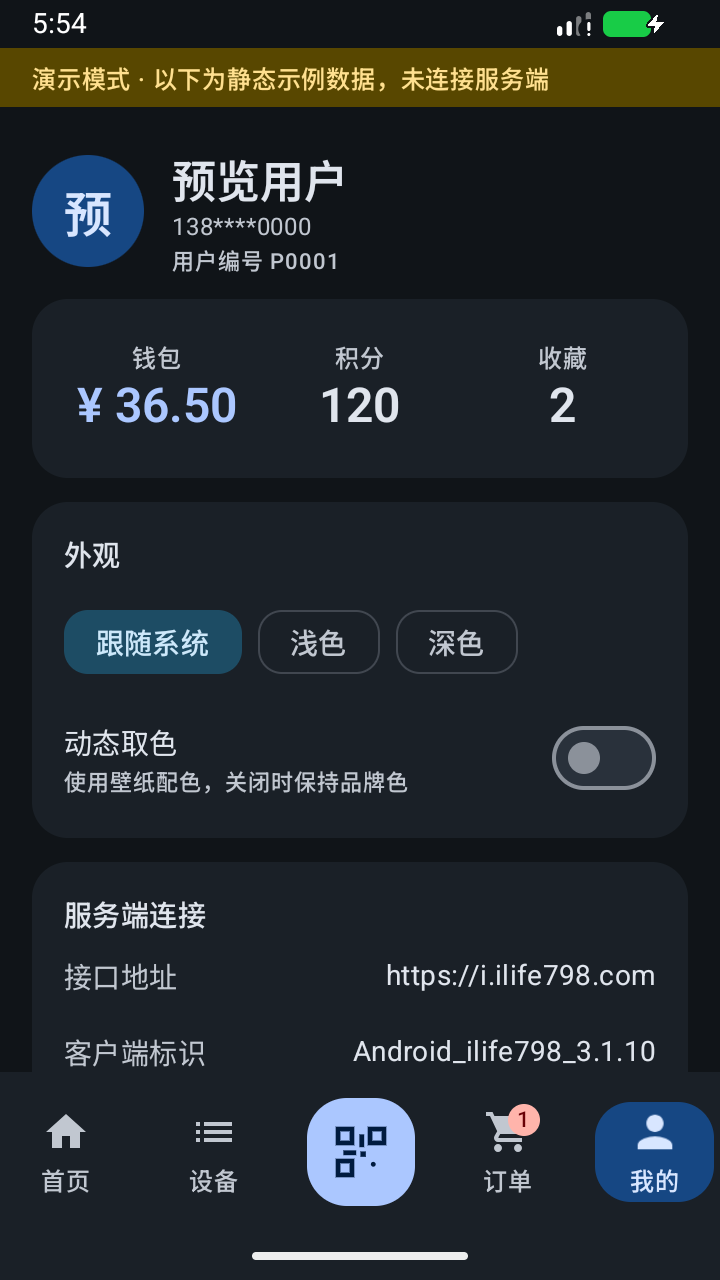
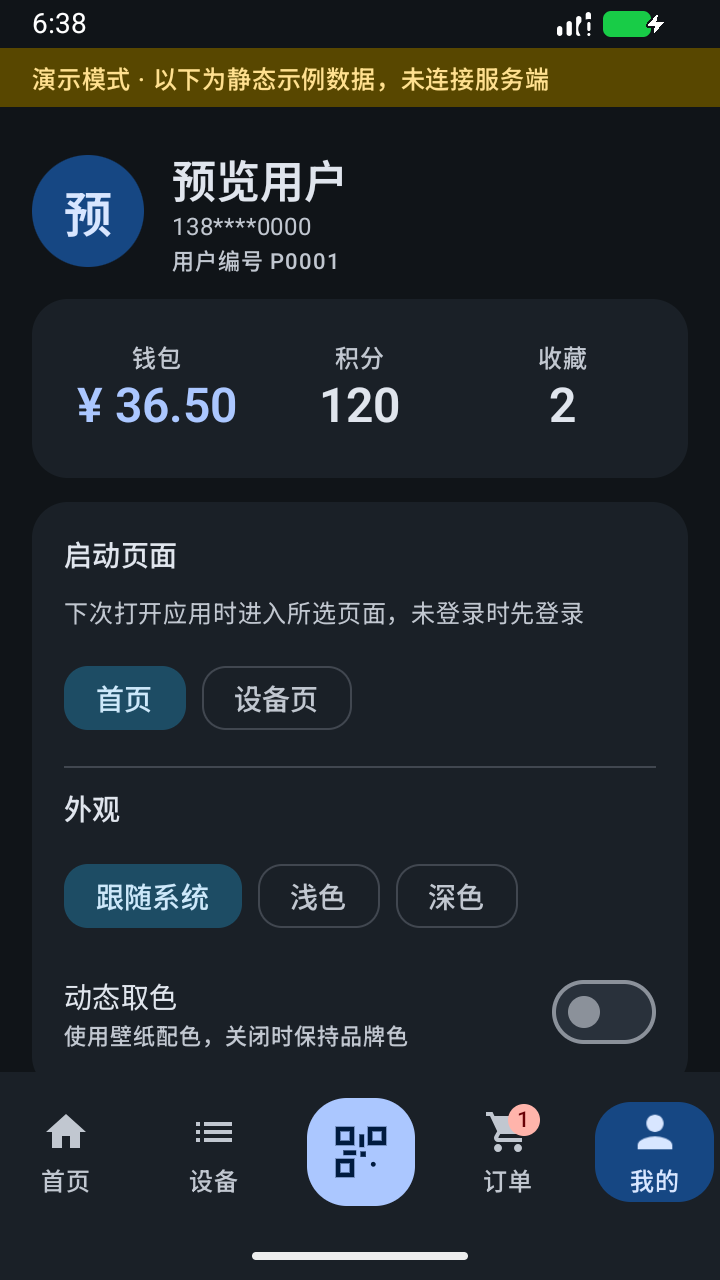
chore(release): 准备 1.9.0 本地构建与启动设置截图

diff --git a/SmartLife798/app/src/androidTest/java/com/smartlife798/app/UxFlowChecks.kt b/SmartLife798/app/src/androidTest/java/com/smartlife798/app/UxFlowChecks.kt
@@ -91,6 +91,8 @@ object UxFlowChecks {
                 await(test, "启动页面")
                 // Capture only preview data, with a stable original filename on export.
                 if (page == StartupPage.DEVICES) {
+                    test.waitForIdleSync()
+                    test.uiAutomation.waitForIdle(500, 5_000)
                     test.uiAutomation.takeScreenshot()?.let { bitmap ->
                         java.io.File(test.targetContext.cacheDir, "ux-me.png").outputStream().use {
                             bitmap.compress(android.graphics.Bitmap.CompressFormat.PNG, 100, it)

diff --git a/README.md b/README.md
@@ -7,29 +7,30 @@
 | | |
 |---|---|
 | 新客户端包名 | `com.smartlife798.app` |
-| 当前版本 | `1.8.0`（`versionCode 30`） |
+| 当前版本 | `1.9.0`（`versionCode 31`） |
 | 技术栈 | Kotlin 2.2 · Jetpack Compose (Material 3) · OkHttp · CameraX + ML Kit · Alipay / WeChat SDK |
 | 最低版本 | Android 7.0（API 24） |
-| 正式下载 | [1.8.0 APK](https://github.com/wu-shanglin/Smartlife798/releases/download/v1.8.0/SmartLife798-1.8.0-debug.apk) · [Release 说明](https://github.com/wu-shanglin/Smartlife798/releases/tag/v1.8.0) |
+| 最新已发布 | [1.8.0 APK](https://github.com/wu-shanglin/Smartlife798/releases/download/v1.8.0/SmartLife798-1.8.0-debug.apk) · [Release 说明](https://github.com/wu-shanglin/Smartlife798/releases/tag/v1.8.0) |
 
 > **首次参与开发请先读 [`AGENTS.md`](AGENTS.md)**（分层规则、硬性约束、常见任务手册、已知陷阱、完成标准），
 > 变更记录见 [`CHANGELOG.md`](CHANGELOG.md)，长期路线见 [`docs/06-工程规范与路线图.md`](docs/06-工程规范与路线图.md)。
 
 ---
 
-## v1.8.0 更新（跨版本日志与协议版本发现）
+## v1.9.0 本地构建（启动页面与体验优化）
 
-- 首次进入前台自动检查更新，历史附件展示当前安装之后至目标版本的全部已有日志，旧客户端更新入口保持兼容。
-- 协议标识优先读取原版小米分发信息，获取失败保留缓存与内置保底；仅版本标识变化无需重新安装本客户端。
-- 深海蓝主题、「我的」指标等宽布局和共享过渡继续保留，完整配色见 [视觉系统](docs/02-功能设计与UI方案.md#6-视觉系统)。
-- 正式 Release 同时提供 APK、更新策略与完整日志附件；下方 11 张截图均已由 1.8.0 重新采集。
+- 「我的 → 启动页面」可选择首页或设备页，默认首页，登出保留；修改后保持当前页面，下次重新启动时生效，未登录先登录。
+- 首页/订单用时只刷新独立文本，非前台暂停；页面状态随生命周期收集，设备关联和排序复用 id 索引，减少重复计算。
+- 设备页区分加载、空列表、同步失败和搜索无匹配，支持重试、清除筛选及一键清空搜索，搜索忽略首尾空格。
+- 「我的」独立刷新钱包，未知余额显示占位；下拉刷新防重复并在取消时释放状态，主数据/钱包的旧账号响应不回写。
+- 本地安装包见下方产物；尚未打 tag 或发布 Release，线上正式下载仍为 1.8.0。
 
 ## 客户端更新与安装
 
 - 首次启动（无需登录）及返回前台自动检查更新，登录页与「我的」可手动检查；普通更新允许暂缓，强制更新按最低支持版本码限制旧版。新发布附带 CHANGELOG 历史附件，弹窗按版本分段展示当前安装至最新版之间的全部已有日志；旧元数据只展示最新说明并提示历史缺失。
 - 点击更新直接下载 GitHub APK，显示进度；校验哈希、包名、版本和签名后自动打开系统安装界面。Android 需要用户确认，首次可能需要允许安装未知来源应用。
 - [直接下载 APK](https://github.com/wu-shanglin/Smartlife798/releases/download/v1.8.0/SmartLife798-1.8.0-debug.apk) · [GitHub 仓库](https://github.com/wu-shanglin/Smartlife798) · [下载最新版本](https://github.com/wu-shanglin/Smartlife798/releases/latest)；更新发布配置见 [工程规范](docs/06-工程规范与路线图.md#github-更新发布)。
-- 已支持应用内更新的旧版可直接升级；更早未集成更新功能的版本需先手动安装。本次为普通更新，最低支持版本码沿用 1。已知强制策略离线仍保留；演示模式不检查、不下载、不安装。
+- 已支持应用内更新的旧版可直接升级；更早未集成更新功能的版本需先手动安装。线上 1.8.0 为普通更新，最低支持版本码沿用 1；1.9.0 尚未发布新策略。已知强制策略离线仍保留；演示模式不检查、不下载、不安装。
 
 详情过渡与校园生活图标继续保留：
 
@@ -38,7 +39,7 @@
 - 设备文字随容器统一缩放，移除独立标题层和重复整页淡变；导航刷新移到进场结束后，避免退场列表同时更新。不使用固定延时，保留系统动画倍率与取消等待。
 - 官方协议请求头优先采用原应用分发页最新版本，获取失败使用有效缓存与内置保底；不会下载或安装原 APK。仅版本头变化无需重新安装本客户端，字段或业务变化仍须修复。历史版本门禁、启停及账单验证范围见 [docs/04](docs/04-接口契约与变更检测.md)、[docs/05](docs/05-真实支付与计费实测.md)。
 
-本次在独立无账号 API 36 模拟器验证分发页 3.1.10 发现与缓存恢复、首次更新提示、三个跨版本日志及暂缓/手动重开、演示隔离。历史 1.7.0 更新流程曾使用公开 GitHub Release 完成下载、校验、取消安装、重试安装与版本确认；其余页面的既有验证为演示模式，真机帧率与 Android 13+ 预测性返回仍需复验。物理出水、非零计费、真实支付及签约仍各自待验；下面截图为 1.8.0 页面展示，均不证明真实设备或支付验收。
+本次在独立、离线、无账号 API 36 模拟器验证两个启动目的地、偏好保留与演示不落盘、设置不跳页、详情返回、搜索/清除、后台恢复及 Activity 重建；「我的」钱包不依赖先进入首页。JVM/工具测试、构建及 lint 另行验证。1.8.0 曾验证协议版本发现与跨版本日志，1.7.0 曾走公开下载及系统安装；这些历史证据不代表本次重验。真机帧率、耗电、物理出水、非零计费、真实支付及签约仍各自待验。
 
 ## 文档
 
@@ -82,7 +83,7 @@
 
 ## 截图
 
-以下 11 张截图于 2026-10-24 使用正式发布包 **1.8.0 / versionCode 30**、独立 API 36 模拟器（720 × 1280）重新采集。登录页未登录；其余页面使用明确标识的静态演示数据，扫码页仅展示虚拟相机。深色页面跟随系统主题，不代表实体扫码、设备启停或支付已验收。详见 [截图清单](docs/02-功能设计与UI方案.md#7-界面截图)。
+以下 11 张截图使用独立 API 36 模拟器（720 × 1280）采集：「我的」及深色设置页于 2026-10-24 用 **1.9.0 / versionCode 31 本地构建**同名覆盖；其余保留 **1.8.0 / versionCode 30** 的页面展示。登录页未登录；其余页面使用明确标识的静态演示数据，扫码页仅展示虚拟相机。深色页面跟随系统主题，不代表实体扫码、设备启停或支付已验收。详见 [截图清单](docs/02-功能设计与UI方案.md#7-界面截图)。
 
 | 登录 | 首页 | 扫码 |
 |---|---|---|
@@ -94,17 +95,17 @@
 
 | 消费记录 | 待付款筛选与角标 | 我的 |
 |---|---|---|
-| ![1.8.0 消费记录演示](screenshots/orders.png) | ![1.8.0 待付款演示](screenshots/preview_bills.png) | ![1.8.0 我的演示](screenshots/me.png) |
+| ![1.8.0 消费记录演示](screenshots/orders.png) | ![1.8.0 待付款演示](screenshots/preview_bills.png) | ![1.9.0 我的与启动设置演示](screenshots/me.png) |
 
 | 深色首页 | 外观（跟随系统深色） |
 |---|---|
-| ![1.8.0 深色首页演示](screenshots/dark.png) | ![1.8.0 深色外观演示](screenshots/appearance_dark.png) |
+| ![1.8.0 深色首页演示](screenshots/dark.png) | ![1.9.0 深色启动与外观设置演示](screenshots/appearance_dark.png) |
 
 ## 构建与测试
 
 | 本地构建 | 文件 |
 |---|---|
-| 产物 | [`dist/SmartLife798-1.8.0-debug.apk`](dist/SmartLife798-1.8.0-debug.apk) |
+| 产物 | [`dist/SmartLife798-1.9.0-debug.apk`](dist/SmartLife798-1.9.0-debug.apk) |
 
 仓库根目录先运行 `python tools/check-repo.py`、`python -m unittest discover -s tools/tests`、`python tools/check-version.py`。
 

diff --git a/docs/02-功能设计与UI方案.md b/docs/02-功能设计与UI方案.md
@@ -191,6 +191,7 @@ App
 ### 4.7 我的
 
 - 资料卡（首字母头像、名称、脱敏手机号、用户编号）。
+- 启动页面设置：首页 / 设备页，默认首页；安装级保留，修改不跳页，下一次重新启动主界面生效。下方保留外观设置。
 - 指标卡：钱包 / 积分 / 收藏数采用三个等宽等高列，列间距 8dp，标签与数值居中；钱包整列保留点击与共享过渡。金额长度不改变三列的宽度分配；数值保持单行，并在 14–24sp 范围内按空间缩放，避免窄屏或大字体将货币符号挤到单独一行；极长数值在最小字号仍放不下时明确显示省略号，钱包详情提供完整余额。「钱包」可点击进入充值页（余额、企业、充值商品，商品由 `prd/lst type=1` 下发）。
 - 服务端连接卡：接口地址、客户端标识、令牌状态、本机最近设备数、**接口连通性自检**（真实调用 `master` 展示结果）、清空本机记录。
 - 关于卡：已实现能力 / 未集成能力（明确列出支付 SDK、门禁、洗衣、驾考）。
@@ -203,11 +204,11 @@ App
 ### 5.1 登录
 
 ```
-启动 → 有 token? ──是→ 首页（后台刷新 master）
+启动 → 有 token? ──是→ 所选启动页（首页 / 设备页，后台刷新）
               └─否→ 登录页 → 取图形码(s,r) → 输入手机号+图形码
                         → POST acc/login/code → 60s 倒计时
                         → 输入短信码 → POST acc/login
-                        → 保存 token/uid → 拉取 master → 首页
+                        → 保存 token/uid → 拉取 master → 所选启动页
 ```
 
 ### 5.2 扫码使用（核心闭环）
@@ -341,7 +342,7 @@ App
 
 ## 7. 界面截图
 
-以下全部截图于 2026-10-24 使用正式发布包 1.8.0 / versionCode 30、独立无账号 API 36 模拟器（720 × 1280、360dp、默认字体）重新采集并同名覆盖。登录页为匿名页面；其余页面均带演示标识，使用静态示例数据。深色页面由系统深色驱动，未在演示中修改应用外观偏好。截图仅说明当前界面，不代表实体扫码、启停、支付或签约通过。
+截图使用独立无账号 API 36 模拟器（720 × 1280、360dp、默认字体）采集。「我的」及深色设置页于 2026-10-24 使用 1.9.0 / versionCode 31 本地构建同名覆盖，其余保留 1.8.0 / versionCode 30 的页面展示。登录页为匿名页面；其余页面均带演示标识，使用静态示例数据。深色由系统驱动，启动页选择仅在演示内存中变化，不写入安装偏好。截图不代表实体扫码、启停、支付、签约或真机性能通过。
 
 | 页面 | 文件 | 来源与限制 |
 |---|---|---|
@@ -354,5 +355,5 @@ App
 | 消费记录 | [orders.png](../screenshots/orders.png) | 1.8.0 静态示例账单，无真实账号资料 |
 | 待付款与角标 | [preview_bills.png](../screenshots/preview_bills.png) | 1.8.0 待付款筛选，未发起支付 |
 | 深色 | [dark.png](../screenshots/dark.png) | 1.8.0 跟随系统深色首页演示 |
-| 我的 | [me.png](../screenshots/me.png) | 1.8.0 演示资料、指标等宽与外观卡片 |
-| 外观 | [appearance_dark.png](../screenshots/appearance_dark.png) | 1.8.0 跟随系统深色；动态取色关闭 |
+| 我的 | [me.png](../screenshots/me.png) | 1.9.0 本地构建，演示钱包、启动页选择与外观 |
+| 外观 | [appearance_dark.png](../screenshots/appearance_dark.png) | 1.9.0 本地构建，系统深色的启动页与外观设置；动态取色关闭 |

diff --git a/CHANGELOG.md b/CHANGELOG.md
@@ -7,13 +7,6 @@
 
 ## [Unreleased]
 
-### 启动与体验
-
-- 「我的」新增启动页面：首页 / 设备页，默认首页；安装级保存，登出保留，未登录先登录。修改设置保留当前页面与返回栈，演示选择不写本机偏好。
-- 首页和订单的用时只刷新独立文本，页面非前台时暂停计时；UI 状态收集绑定生命周期。首页排序、设备关联使用 id 索引，设备过滤与类型集合按输入缓存，减少重复扫描与重组计算。
-- 设备页补同步加载、失败重试与缓存保留；搜索忽略首尾空格，无匹配时提供清除筛选。下拉刷新防重复、取消后释放状态，主数据旧账号响应不回写。
-- 「我的」独立刷新钱包，不再依赖先进入首页；余额未知时显示占位，钱包旧账号响应不回写。
-
 ### 外观与布局
 
 - 深海蓝主题及我的指标等宽布局随 1.7.6 准备，见下方记录。
@@ -50,6 +43,17 @@
 - 真实支付链路回归（需要一笔 `status=1` 账单）
 - 热水机现场回归、物理出水与非零计费闭环（饮水机版本门禁对比与当前回归范围见 docs/05）
 - R8 压缩 + 基线 Profile
+
+## [1.9.0] - 2026-10-24
+
+### 启动与体验
+
+- 「我的」新增启动页面：首页 / 设备页，默认首页；安装级保存，登出保留，未登录先登录。修改设置保留当前页面与返回栈，演示选择不写本机偏好。
+- 首页和订单的用时只刷新独立文本，页面非前台时暂停计时；UI 状态收集绑定生命周期。首页排序、设备关联使用 id 索引，设备过滤与类型集合按输入缓存，减少重复扫描与重组计算。
+- 设备页补同步加载、失败重试与缓存保留；搜索忽略首尾空格，无匹配时提供清除筛选。下拉刷新防重复、取消后释放状态，主数据旧账号响应不回写。
+- 「我的」独立刷新钱包，不再依赖先进入首页；余额未知时显示占位，钱包旧账号响应不回写。
+
+本地构建准备，尚未创建 tag 或发布远端 Release；线上正式下载仍为 1.8.0。
 
 ## [1.8.0] - 2026-10-24
 

diff --git a/docs/06-工程规范与路线图.md b/docs/06-工程规范与路线图.md
@@ -54,6 +54,8 @@ adb shell am instrument -w -e sha256 <当前APK的SHA256> com.smartlife798.app.t
 
 2026-10-24，独立无账号 API 36 模拟器验证了分发页 3.1.10 发现与缓存恢复，以及离线缓存策略的首次前台提示、三个跨版本日志、已安装版本排除、暂缓和手动重开；演示刷新未写缓存。该证据不包含新原包签名/字段恢复或真实启停兼容性。
 
+2026-10-24，1.9.0 本地构建在独立离线 API 36 模拟器通过浅/深色两套 `ux` 流程：两个启动目的地、账号清理保留偏好、演示设置不落盘、钱包独立加载、详情返回、搜索/清除、后台恢复和 Activity 重建；JVM/工具测试、构建与 lint 通过。无账号、未执行真实业务；真机帧率、耗电和真实网络故障未在本次量化/验收。本地 APK 不代表远端已发布。
+
 单测报告在 `SmartLife798/app/build/reports/tests/testDebugUnitTest/`，XML 在 `app/build/test-results/testDebugUnitTest/`。
 测试数量从本次结果读取，不在规范和模板中写死。
 
